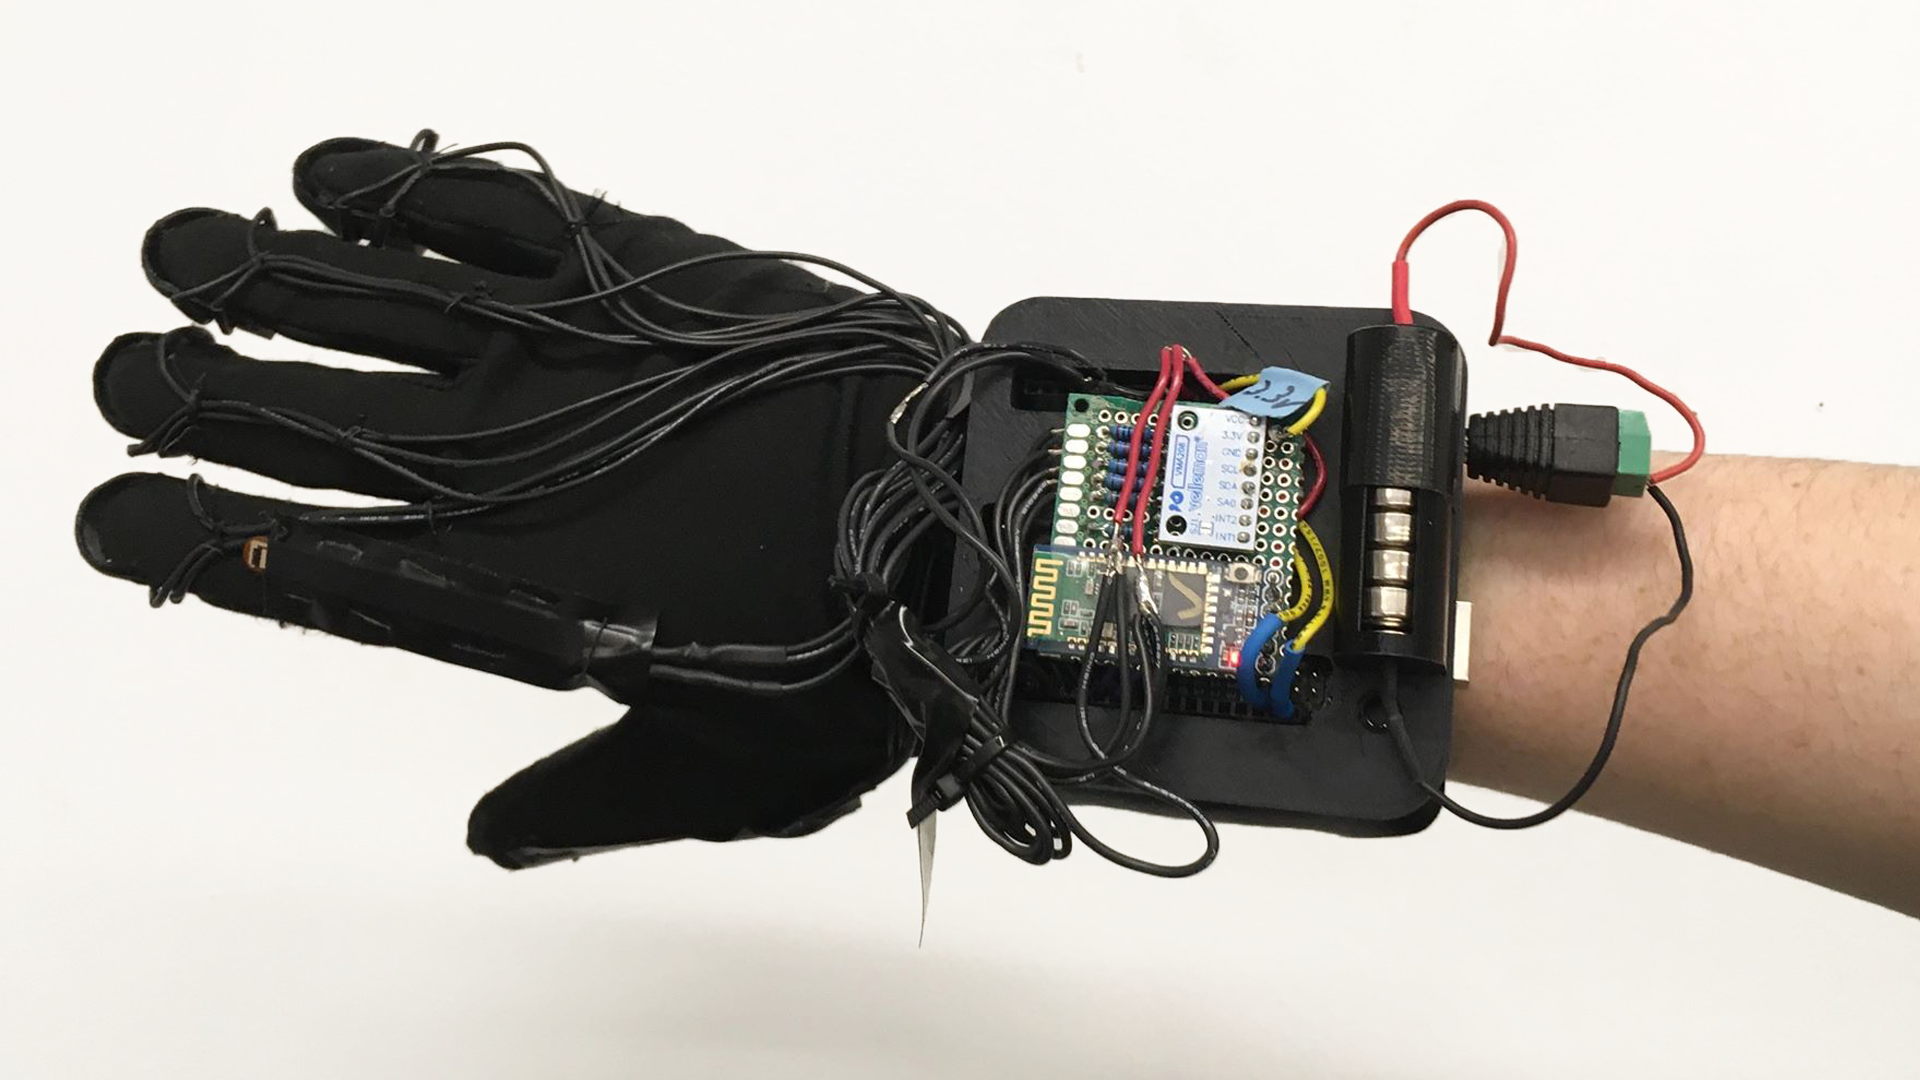
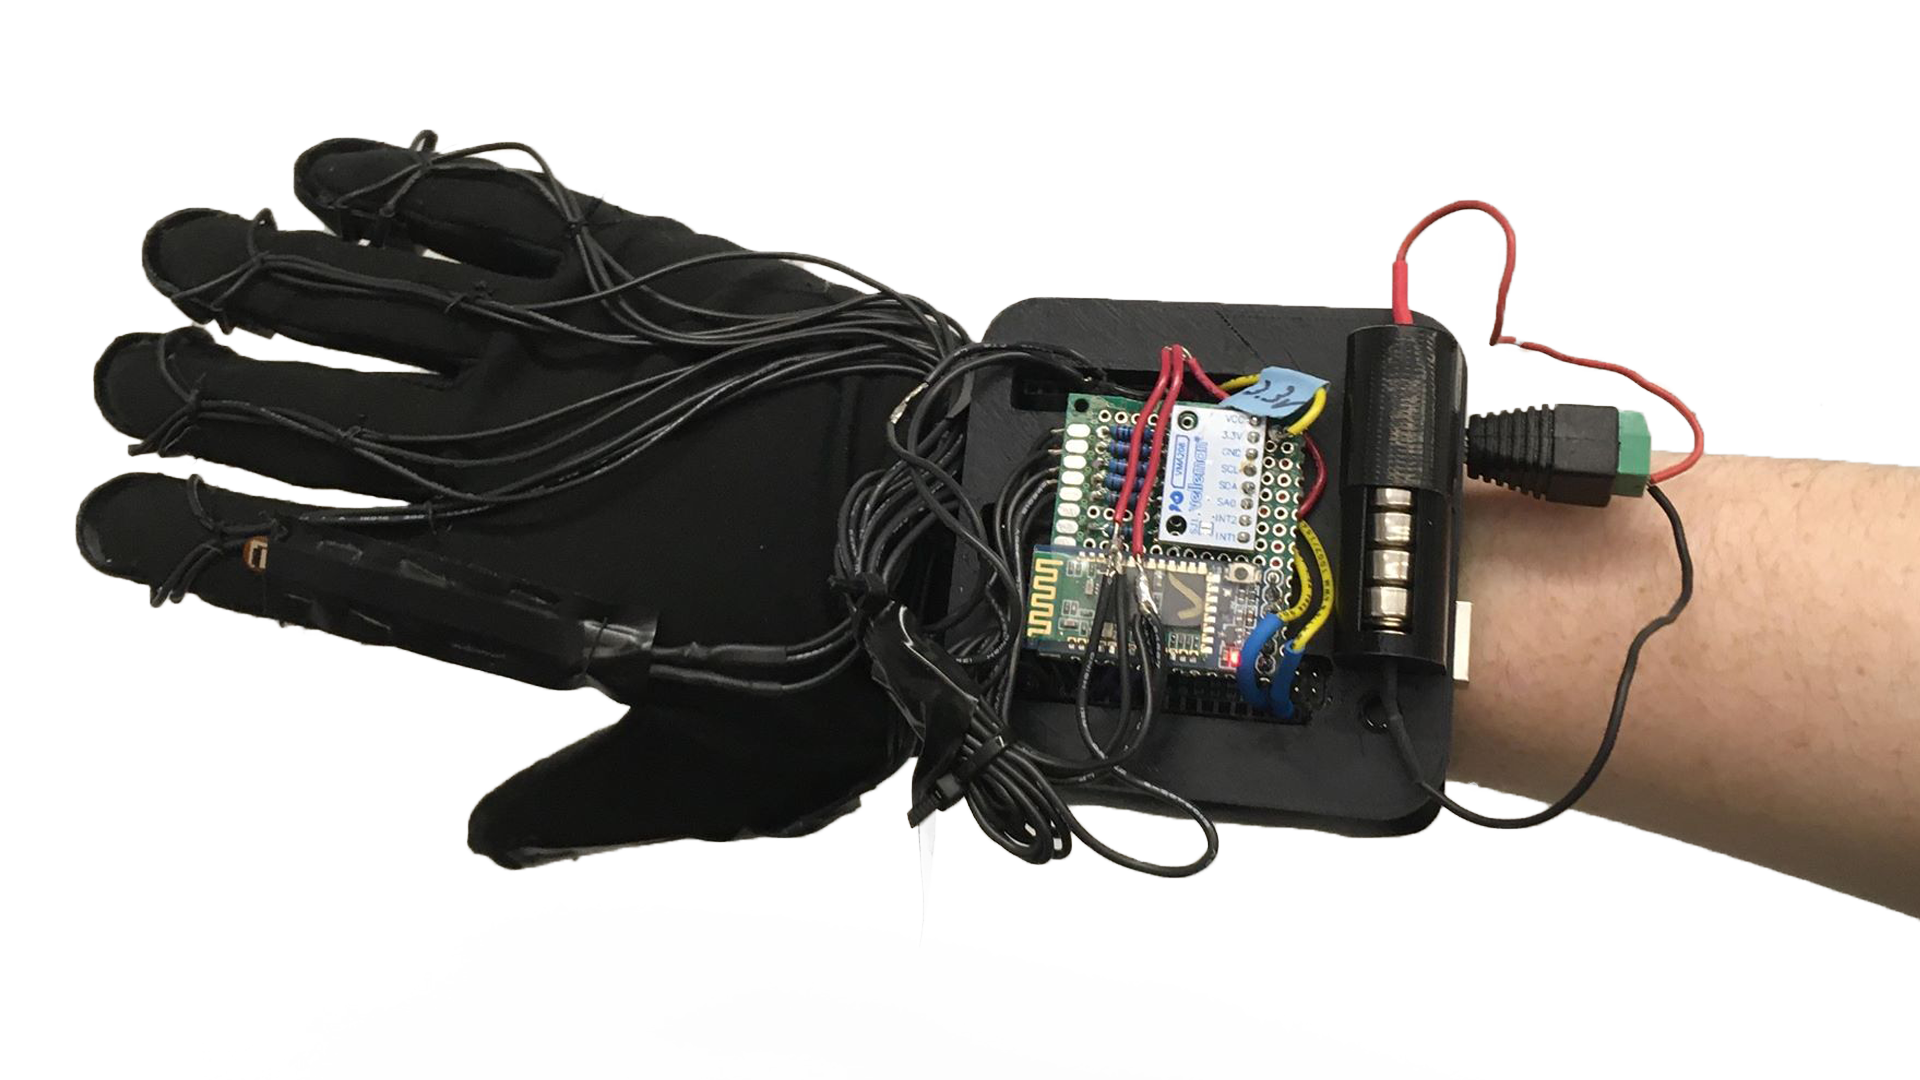
brightened POE image

diff --git a/sexy beast css.scss b/sexy beast css.scss
@@ -1,0 +1,47 @@
+/* Coolors Exported Palette - https://coolors.co/1a181b-564d65-3e8989-2cda9d-05f140 */
+
+/* CSS HEX */
+--raisin-black: #1a181bff;
+--independence: #564d65ff;
+--dark-cyan: #3e8989ff;
+--medium-aquamarine: #2cda9dff;
+--erin: #05f140ff;
+
+/* CSS HSL */
+--raisin-black: hsla(280, 6%, 10%, 1);
+--independence: hsla(263, 13%, 35%, 1);
+--dark-cyan: hsla(180, 38%, 39%, 1);
+--medium-aquamarine: hsla(159, 70%, 51%, 1);
+--erin: hsla(135, 96%, 48%, 1);
+
+/* SCSS HEX */
+$raisin-black: #1a181bff;
+$independence: #564d65ff;
+$dark-cyan: #3e8989ff;
+$medium-aquamarine: #2cda9dff;
+$erin: #05f140ff;
+
+/* SCSS HSL */
+$raisin-black: hsla(280, 6%, 10%, 1);
+$independence: hsla(263, 13%, 35%, 1);
+$dark-cyan: hsla(180, 38%, 39%, 1);
+$medium-aquamarine: hsla(159, 70%, 51%, 1);
+$erin: hsla(135, 96%, 48%, 1);
+
+/* SCSS RGB */
+$raisin-black: rgba(26, 24, 27, 1);
+$independence: rgba(86, 77, 101, 1);
+$dark-cyan: rgba(62, 137, 137, 1);
+$medium-aquamarine: rgba(44, 218, 157, 1);
+$erin: rgba(5, 241, 64, 1);
+
+/* SCSS Gradient */
+$gradient-top: linear-gradient(0deg, #1a181bff, #564d65ff, #3e8989ff, #2cda9dff, #05f140ff);
+$gradient-right: linear-gradient(90deg, #1a181bff, #564d65ff, #3e8989ff, #2cda9dff, #05f140ff);
+$gradient-bottom: linear-gradient(180deg, #1a181bff, #564d65ff, #3e8989ff, #2cda9dff, #05f140ff);
+$gradient-left: linear-gradient(270deg, #1a181bff, #564d65ff, #3e8989ff, #2cda9dff, #05f140ff);
+$gradient-top-right: linear-gradient(45deg, #1a181bff, #564d65ff, #3e8989ff, #2cda9dff, #05f140ff);
+$gradient-bottom-right: linear-gradient(135deg, #1a181bff, #564d65ff, #3e8989ff, #2cda9dff, #05f140ff);
+$gradient-top-left: linear-gradient(225deg, #1a181bff, #564d65ff, #3e8989ff, #2cda9dff, #05f140ff);
+$gradient-bottom-left: linear-gradient(315deg, #1a181bff, #564d65ff, #3e8989ff, #2cda9dff, #05f140ff);
+$gradient-radial: radial-gradient(#1a181bff, #564d65ff, #3e8989ff, #2cda9dff, #05f140ff);
